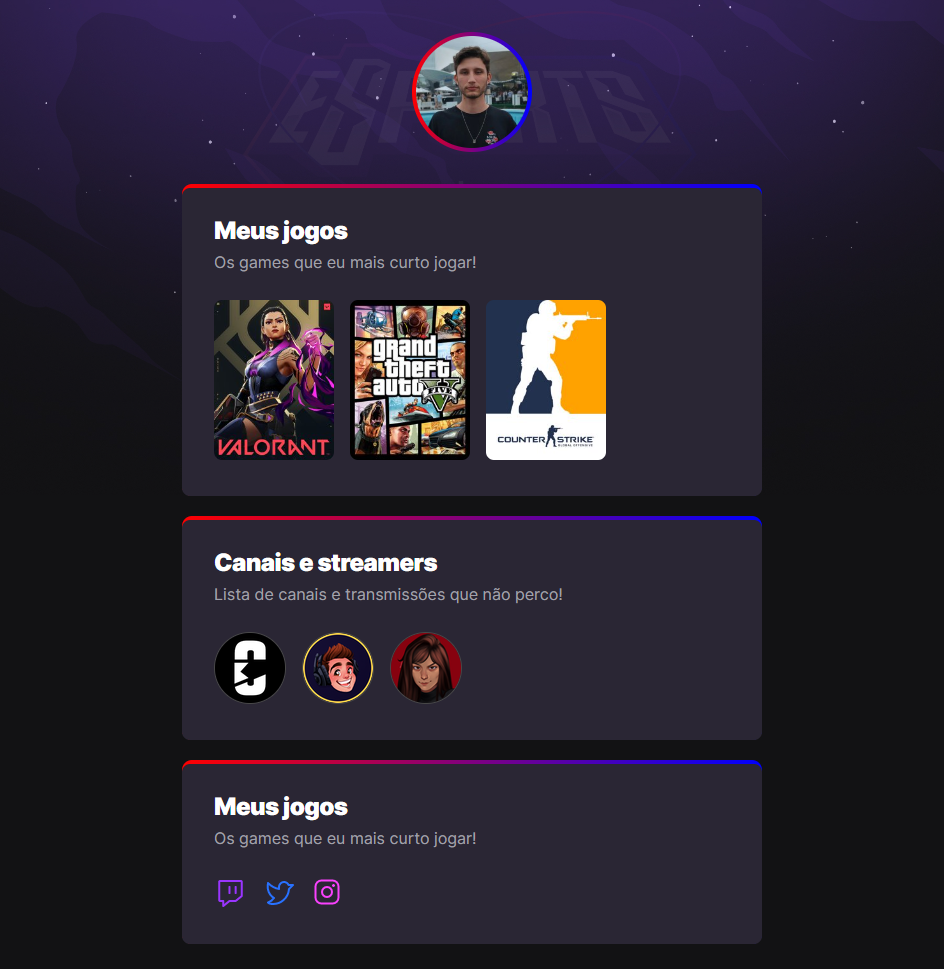
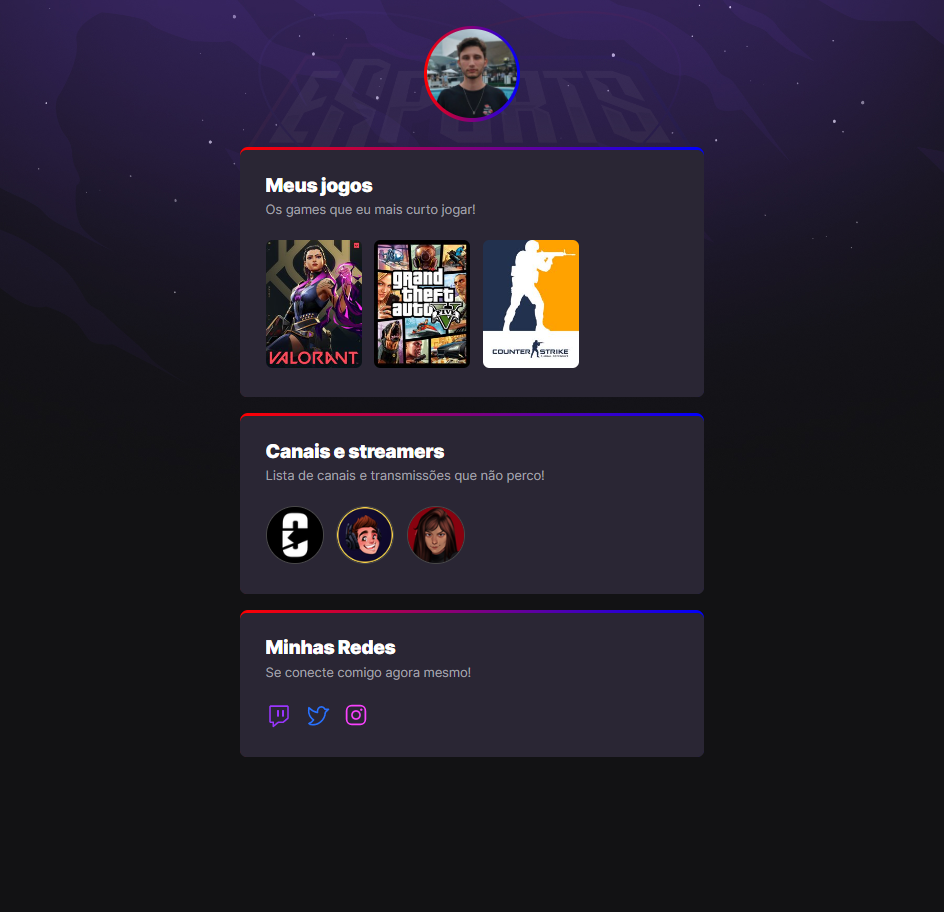
animation commit

Changed region(s): [[0.1843, 0.0307, 0.8294, 0.9825]]

diff --git a/style.css b/style.css
@@ -76,23 +76,6 @@ section div ul{
     border-radius: 50%;
     border: 1px solid #474747;
 }
-.img_jogos:hover{
-    
-    border-radius: 8px;
-    box-shadow:
-        4px 4px 4px 4px rgb(3, 3, 3);
-    -webkit-transform: translateX(-2px);
-    transform: translateX(-3px);
-}
-.img_canais:hover{
-    
-    border-radius: 8px;
-    box-shadow:
-        4px 4px 4px 4px rgb(3, 3, 3);
-    -webkit-transform: translateX(-2px);
-    transform: translateX(-3px);
-    border-radius: 50%;
-}
 /* Configuração para dispositivos menores */
 
 @media screen and (max-width: 450px) {
@@ -115,5 +98,44 @@ section div ul{
     }
     .img_canais{
         width: 60px ;
+    }
+}
+/* animation */
+
+.img_jogos:hover{
+    
+    border-radius: 8px;
+    box-shadow: 4px 4px 4px 4px rgb(3, 3, 3);
+    -webkit-transform: translateX(-2px);
+    transform: translateX(-3px);
+}
+.img_canais:hover{
+    
+    border-radius: 8px;
+    box-shadow: 4px 4px 4px 4px rgb(3, 3, 3);
+    -webkit-transform: translateX(-2px);
+    transform: translateX(-3px);
+    border-radius: 50%;
+}
+main section{
+    animation: mainBottom .7s backwards;  
+}
+main section:nth-child(1){
+    animation-delay: .5s;
+}
+main section:nth-child(2){
+    animation-delay: .7s;
+}
+main section:nth-child(3){
+    animation-delay: .9s;
+}
+@keyframes mainBottom{
+    from{
+        opacity: 0;
+        transform: translateY(30px);
+    }
+    to{
+        opacity: 1;
+        transform: translateY(0);
     }
 }

diff --git a/index.html b/index.html
@@ -77,10 +77,10 @@
         <section >
             <div>
                 <h2>
-                    Meus jogos
+                    Minhas Redes
                 </h2>
                 <p>
-                    Os games que eu mais curto jogar!
+                    Se conecte comigo agora mesmo!
                 </p>
                 <ul>
                     <a href="" target="_blank">    
